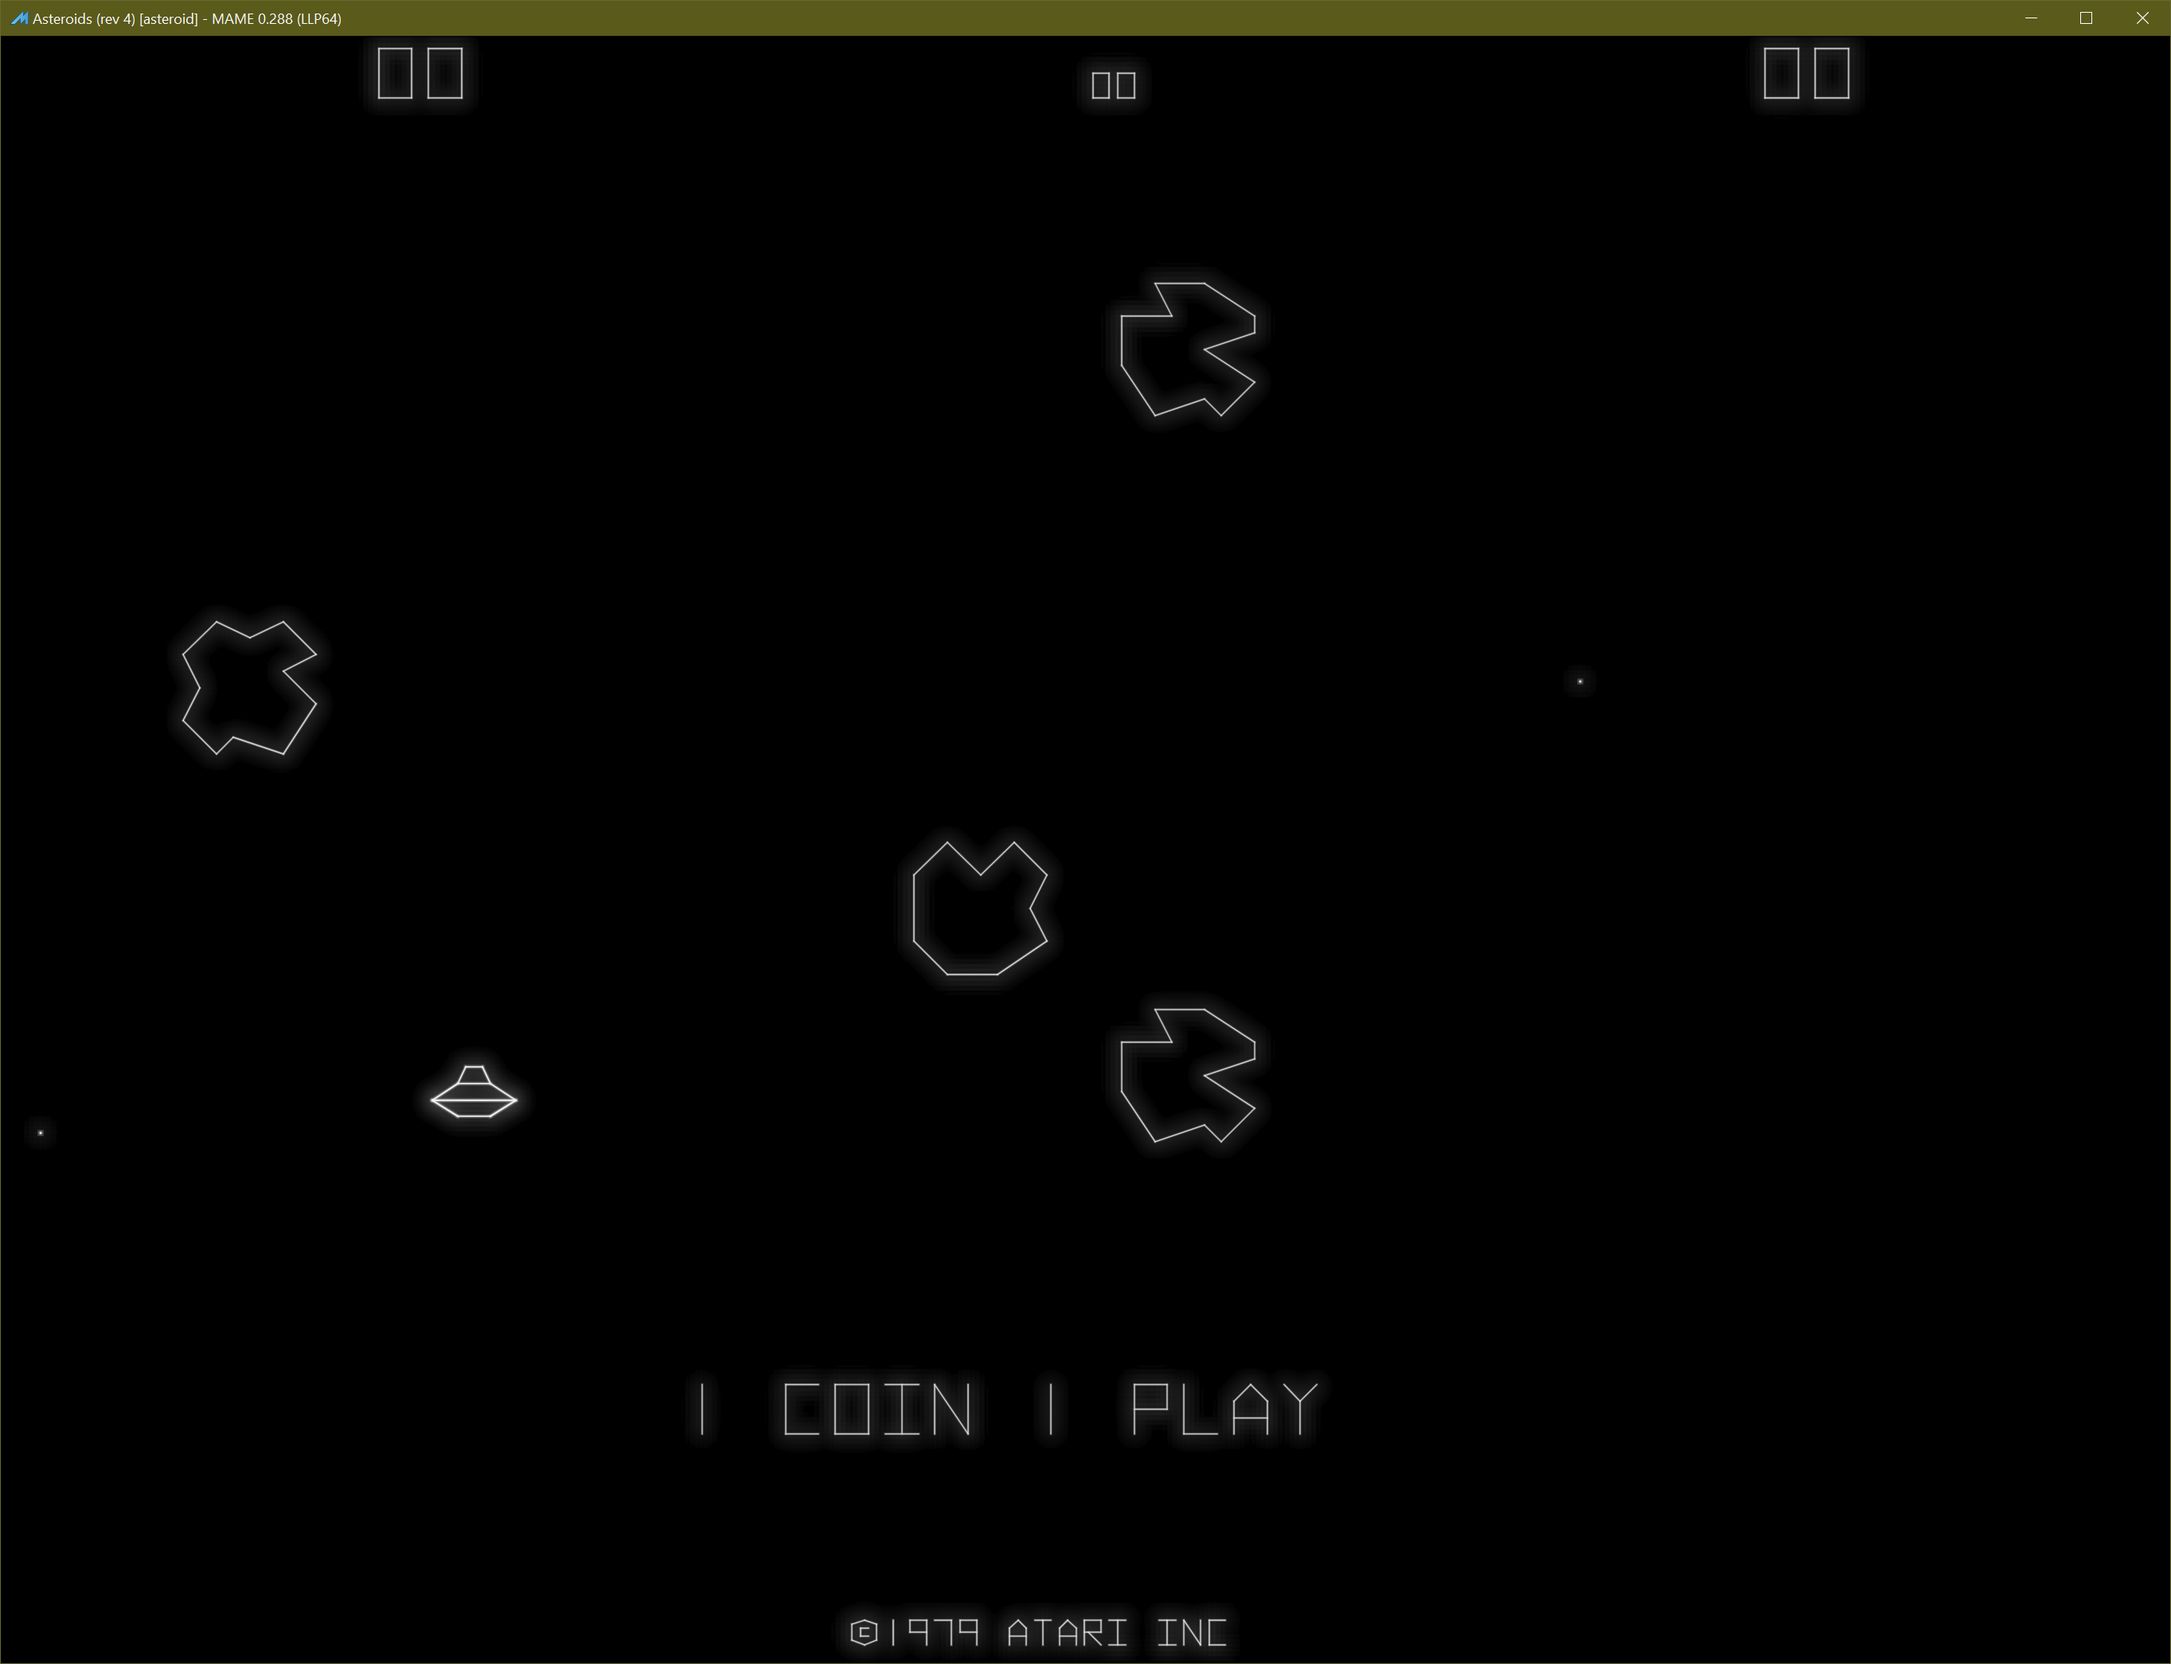
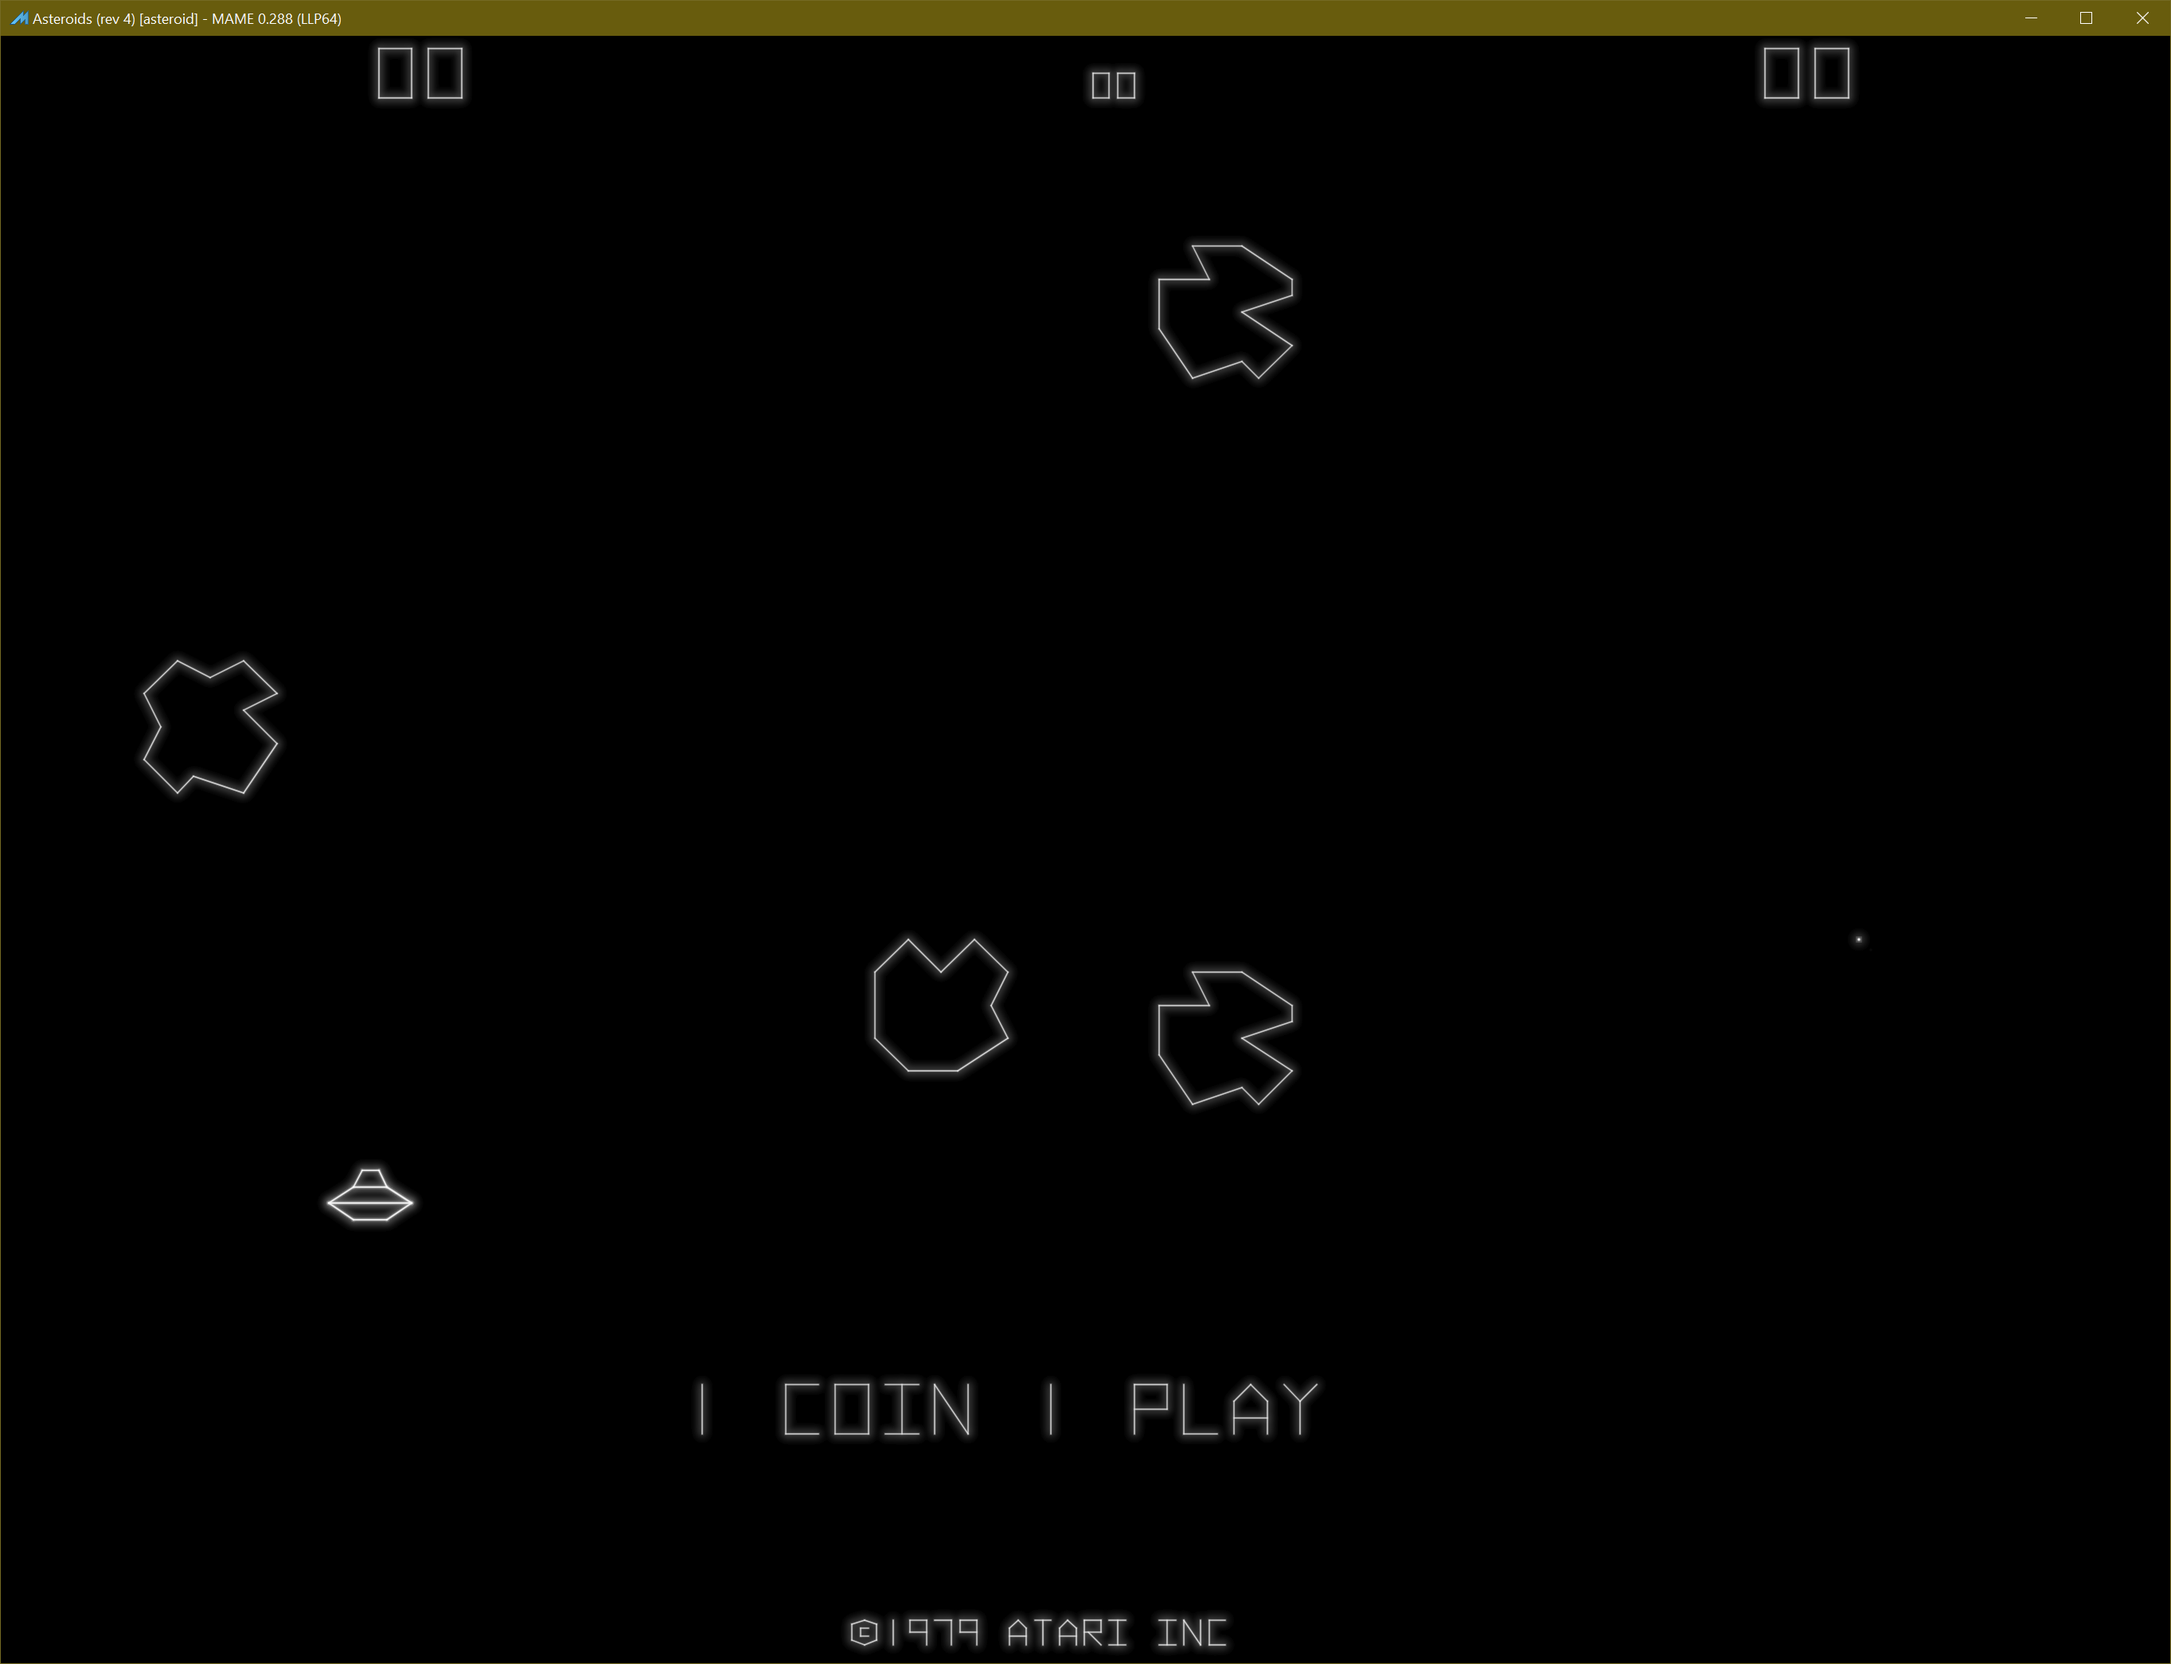
bgfx: improve vector CRT bloom sampling

diff --git a/src/osd/modules/render/bgfx/vectorrenderer.cpp b/src/osd/modules/render/bgfx/vectorrenderer.cpp
@@ -468,18 +468,26 @@ void bgfx_vector_renderer::prepare(uint32_t &view, render_primitive *first, uint
 	// Scale the output-pixel bloom radius relative to a 1080-line reference.
 	float const bloom_scale = std::clamp(float(m_height) / 1080.0f, 0.25f, 2.0f);
 	float const bloom_radius = m_bloom_radius * bloom_scale;
+	float const sigma_x = bloom_radius * float(m_bloom_width) / float(m_width);
+	float const sigma_y = bloom_radius * float(m_bloom_height) / float(m_height);
+
+	// Gaussian variances add over repeated passes.  Divide sigma so the
+	// combined blur retains the radius requested by the slider.
+	float const pass_scale = 1.0f / std::sqrt(float(BLOOM_PASSES));
+	float const pass_sigma_x = sigma_x * pass_scale;
+	float const pass_sigma_y = sigma_y * pass_scale;
 
 	for (unsigned pass = 0; pass < BLOOM_PASSES; ++pass)
 	{
 		setup_view(uint16_t(view), m_bloom[1].framebuffer, m_bloom_width, m_bloom_height, false);
 		bgfx::setTexture(0, m_blur_effect->uniform("s_tex")->handle(), m_bloom[0].texture, SAMPLE_FLAGS);
-		set_uniform(m_blur_effect, "u_blur", bloom_radius / float(m_width), 0.0f);
+		set_uniform(m_blur_effect, "u_blur", 1.0f / float(m_bloom_width), 0.0f, pass_sigma_x);
 		draw_post(m_blur_effect, uint16_t(view));
 		++view;
 
 		setup_view(uint16_t(view), m_bloom[0].framebuffer, m_bloom_width, m_bloom_height, false);
 		bgfx::setTexture(0, m_blur_effect->uniform("s_tex")->handle(), m_bloom[1].texture, SAMPLE_FLAGS);
-		set_uniform(m_blur_effect, "u_blur", 0.0f, bloom_radius / float(m_height));
+		set_uniform(m_blur_effect, "u_blur", 0.0f, 1.0f / float(m_bloom_height), pass_sigma_y);
 		draw_post(m_blur_effect, uint16_t(view));
 		++view;
 	}
@@ -515,7 +523,7 @@ void bgfx_vector_renderer::create_sliders()
 		{ "Vector beam intensity",        10, 400, 500, 1 },   // 4.00
 		{ "Vector beam halo",              0,   4, 100, 1 },   // 0.04
 		{ "Vector bloom strength",         0,  20, 300, 1 },   // 0.20
-		{ "Vector bloom radius",          20, 150, 400, 1 },   // 1.50
+		{ "Vector bloom radius",          50, 212, 260, 1 },   // 2.12
 		{ "Vector exposure",              10,  78, 400, 1 },   // 0.78
 	};
 

diff --git a/docs/source/techspecs/bgfx_vector_crt.rst b/docs/source/techspecs/bgfx_vector_crt.rst
@@ -12,8 +12,8 @@ replaces direct, frame-oriented line drawing with a persistent HDR phosphor
 buffer, instanced Gaussian beam deposition, approximate scan-order timing,
 bloom, and tone-mapped composition.
 
-Set the ``bgfx_vectorcrt`` option to ``1`` to enable it.  The option is disabled
-by default.  The renderer is used only with the BGFX video backend and when the
+The ``bgfx_vectorcrt`` option is enabled by default; set it to ``0`` to disable
+it.  The renderer is used only with the BGFX video backend and when the
 primitive list contains a vector-buffer marker.  If its effects, geometry, or
 RGBA16F render targets cannot be created, BGFX falls back to normal vector line
 rendering.
@@ -54,7 +54,7 @@ Pipeline overview
                 +----> persistent full-resolution phosphor
                 |
                 v
-    One-third-resolution box downsample
+    Half-resolution box downsample
                 |
                 v
     Two horizontal/vertical Gaussian blur iterations
@@ -63,13 +63,13 @@ Pipeline overview
     Phosphor + bloom -> exposure -> tone map -> gamma -> output
 
 The persistent accumulation is ping-ponged between two full-resolution
-RGBA16F targets.  Bloom uses two RGBA16F targets rounded up to one third of the
-output dimensions:
+RGBA16F targets.  Bloom uses two RGBA16F targets rounded up to half the output
+dimensions:
 
 .. code-block:: cpp
 
-    bloom_width  = max(1, (width  + 2) / 3);
-    bloom_height = max(1, (height + 2) / 3);
+    bloom_width  = max(1, (width  + 1) / 2);
+    bloom_height = max(1, (height + 1) / 2);
 
 RGBA16F is required because additive beam contributions must retain HDR energy
 across frames before tone mapping.
@@ -296,8 +296,11 @@ Bloom
 -----
 
 The full-resolution phosphor image is reduced with a four-sample box filter.
-Bloom uses a separable five-tap Gaussian approximation.  Two complete
-horizontal/vertical iterations produce four blur draws per frame.
+Bloom uses a separable nine-tap Gaussian kernel.  Each axis samples the centre
+texel and integer offsets from one through four texels in both directions.
+The fragment shader calculates weights from the uniform sigma and normalises
+them for unit DC gain.  Two complete horizontal/vertical iterations produce
+four blur draws per frame.
 
 Bloom radius is referenced to 1080 lines:
 
@@ -307,8 +310,29 @@ Bloom radius is referenced to 1080 lines:
     bloom_radius = m_bloom_radius * bloom_scale;
 
 This keeps bloom approximately constant as a fraction of screen height through
-2160p.  The clamp prevents extreme kernels outside that range.  Blur offsets
-are normalised by the one-third-resolution target dimensions.
+2160p.  The clamp prevents extreme kernels outside that range.  The radius is
+converted from output pixels to bloom-texture texels independently for each
+axis:
+
+.. code-block:: cpp
+
+    sigma_x = bloom_radius * bloom_width  / output_width;
+    sigma_y = bloom_radius * bloom_height / output_height;
+
+    pass_scale   = 1 / sqrt(bloom_passes);
+    pass_sigma_x = sigma_x * pass_scale;
+    pass_sigma_y = sigma_y * pass_scale;
+
+    horizontal_u_blur = (1 / bloom_width,  0,                pass_sigma_x, 0);
+    vertical_u_blur   = (0,                1 / bloom_height, pass_sigma_y, 0);
+
+``u_blur.xy`` is therefore exactly one bloom texel along the active axis, and
+``u_blur.z`` is Gaussian sigma in bloom texels.  The fragment shader samples
+at integer multiples of that texel step.  Minification and magnification remain
+linearly filtered, but the kernel no longer relies on fractional bilinear tap
+positions.  Gaussian variances add across the repeated iterations, so dividing
+each pass's sigma by the square root of the pass count makes the combined blur
+match the radius requested by the slider.
 
 There is no brightness threshold.  All positive phosphor energy contributes,
 and ``Vector bloom strength`` controls bloom during composition.
@@ -372,11 +396,11 @@ cannot reach rendering.
      - Strength of the wide Gaussian component
    * - Vector bloom strength
      - 0.00-3.00x
-     - 0.12x
+     - 0.20x
      - Bloom contribution during composition
    * - Vector bloom radius
-     - 0.20-4.00 px at 1080p
-     - 0.65
+     - 0.50-2.60 px at 1080p
+     - 2.12
      - Blur radius before resolution scaling
    * - Vector exposure
      - 0.10-4.00x
@@ -393,10 +417,10 @@ Performance characteristics
 CPU work is linear in segment count: collect primitives, measure lengths, and
 fill transient instance buffers.  There is no CPU per-pixel rasterisation.
 
-GPU beam cost is proportional to padded quad area.  Bloom has one one-third-
-resolution downsample and four one-third-resolution blur passes.  Decay and
+GPU beam cost is proportional to padded quad area.  Bloom has one half-
+resolution downsample and four half-resolution blur passes.  Decay and
 composition are full-resolution.  Memory is dominated by two full-resolution
-and two one-third-resolution RGBA16F targets.
+and two half-resolution RGBA16F targets.
 
 Transient instance-buffer exhaustion is handled in batches.  Failure to
 allocate any instances logs a warning and stops beam submission for that frame.
